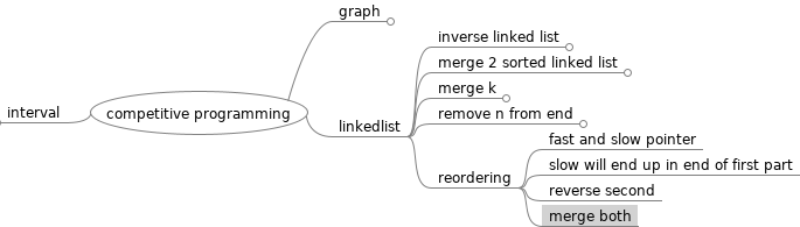
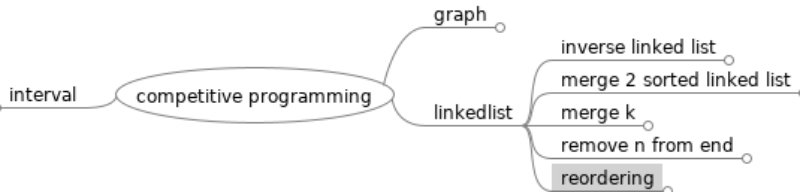
update lecture notes

Changed region(s): [[0.0, 0.0312, 1.0, 1.0], [0.4062, 0.0312, 0.5, 0.125], [0.375, 0.125, 0.4062, 0.1875]]

diff --git a/golang web.mm b/golang web.mm
@@ -1,7 +1,7 @@
 <map version="1.1.0">
 <!-- To view this file, download free mind mapping software FreeMind from http://freemind.sourceforge.net -->
 <node CREATED="1645978345703" ID="ID_952029215" MODIFIED="1645978353328" TEXT="golang web">
-<node CREATED="1645978353794" ID="ID_1264128134" MODIFIED="1645978358856" POSITION="right" TEXT="struktur">
+<node CREATED="1645978353794" FOLDED="true" ID="ID_1264128134" MODIFIED="1646240311243" POSITION="right" TEXT="struktur">
 <node CREATED="1645978359085" ID="ID_540691201" MODIFIED="1645978364226" TEXT="cmd">
 <node CREATED="1645978373316" ID="ID_836199137" MODIFIED="1645978374993" TEXT="folder"/>
 <node CREATED="1645978375265" ID="ID_1733322604" MODIFIED="1645978376710" TEXT="folder"/>
@@ -12,7 +12,7 @@
 </node>
 <node CREATED="1645978378054" ID="ID_1576394384" MODIFIED="1645978384313" TEXT="go.mod"/>
 </node>
-<node CREATED="1646144791918" ID="ID_460133849" MODIFIED="1646144794004" POSITION="left" TEXT="intro">
+<node CREATED="1646144791918" FOLDED="true" ID="ID_460133849" MODIFIED="1646240315573" POSITION="left" TEXT="intro">
 <node CREATED="1646144794279" FOLDED="true" ID="ID_1769195233" MODIFIED="1646145892400" TEXT="module">
 <node CREATED="1646144796502" ID="ID_857361042" MODIFIED="1646144804929" TEXT="manage and version control 3rd party "/>
 <node CREATED="1646144853588" FOLDED="true" ID="ID_1186864417" MODIFIED="1646145779800" TEXT="module name">
@@ -65,9 +65,39 @@
 <node CREATED="1646148165127" ID="ID_444521504" MODIFIED="1646148170950" TEXT="url query ">
 <node CREATED="1646148171339" ID="ID_1004898848" MODIFIED="1646148178672" TEXT="r.Url.Query"/>
 </node>
+<node CREATED="1646239233150" FOLDED="true" ID="ID_305910758" MODIFIED="1646239380573" TEXT="stuktur">
+<node CREATED="1646239237813" ID="ID_493323920" MODIFIED="1646239239892" TEXT="cmd"/>
+<node CREATED="1646239240136" ID="ID_72247653" MODIFIED="1646239241999" TEXT="pkg"/>
+<node CREATED="1646239242243" ID="ID_408522718" MODIFIED="1646239244037" TEXT="ui">
+<node CREATED="1646239261621" ID="ID_806149419" MODIFIED="1646239263439" TEXT="html"/>
+<node CREATED="1646239263695" ID="ID_1901437795" MODIFIED="1646239265536" TEXT="static"/>
+</node>
+</node>
+<node CREATED="1646239381290" FOLDED="true" ID="ID_1908585021" MODIFIED="1646240308255" TEXT="html/template">
+<node CREATED="1646239445130" ID="ID_837437717" MODIFIED="1646239455745" TEXT="template.ParseFile(&quot;.&quot;)">
+<node CREATED="1646239456164" ID="ID_548063431" MODIFIED="1646239464427" TEXT="titik buat nunjukin">
+<node CREATED="1646239464663" ID="ID_994939804" MODIFIED="1646239471075" TEXT="ini mulai dari root"/>
+</node>
+<node CREATED="1646239521848" ID="ID_418497392" MODIFIED="1646239525382" TEXT="balikan ts"/>
+</node>
+<node CREATED="1646239518446" ID="ID_272886794" MODIFIED="1646239536709" TEXT="ts.execute(w,nil)"/>
+<node CREATED="1646239703691" ID="ID_1454167678" MODIFIED="1646239712934" TEXT="{{ define &quot;base&quot;}}">
+<node CREATED="1646239713517" ID="ID_135177434" MODIFIED="1646239717420" TEXT="{{end}}"/>
+</node>
+<node CREATED="1646239970479" FOLDED="true" ID="ID_1364114617" MODIFIED="1646240306723" TEXT="keyword">
+<node CREATED="1646239976867" ID="ID_1881803971" MODIFIED="1646239978905" TEXT="define"/>
+<node CREATED="1646239979150" ID="ID_1330507291" MODIFIED="1646239982596" TEXT="template"/>
+<node CREATED="1646239982867" ID="ID_1034449375" MODIFIED="1646239984295" TEXT="end"/>
+</node>
+</node>
 </node>
 <node CREATED="1646148221612" ID="ID_1704935439" MODIFIED="1646148225350" POSITION="right" TEXT="status">
 <node CREATED="1646148225587" ID="ID_963603301" MODIFIED="1646148249772" TEXT="end in project structure page 35"/>
+</node>
+<node CREATED="1646240312651" ID="ID_611864463" MODIFIED="1646240320411" POSITION="left" TEXT="handler">
+<node CREATED="1646240320772" ID="ID_1465201173" MODIFIED="1646240331984" TEXT="object yg implement http.Handler"/>
+<node CREATED="1646240650104" ID="ID_1850168368" MODIFIED="1646240655969" TEXT="handlerFunc"/>
+<node CREATED="1646240656217" ID="ID_1701533356" MODIFIED="1646240659215" TEXT="serveHttp"/>
 </node>
 </node>
 </map>

diff --git a/competitive programming.mm b/competitive programming.mm
@@ -76,9 +76,10 @@
 </node>
 </node>
 </node>
-<node CREATED="1646235384630" ID="ID_43644296" MODIFIED="1646235388182" TEXT="reordering">
+<node CREATED="1646235384630" FOLDED="true" ID="ID_43644296" MODIFIED="1646239222746" TEXT="reordering">
 <node CREATED="1646235388415" ID="ID_1563599824" MODIFIED="1646235394739" TEXT="fast and slow pointer"/>
 <node CREATED="1646235395540" ID="ID_161195750" MODIFIED="1646235414114" TEXT="slow will end up in end of first part"/>
+<node CREATED="1646236123980" ID="ID_20418187" MODIFIED="1646236130406" TEXT="cut the second"/>
 <node CREATED="1646236100985" ID="ID_1930722075" MODIFIED="1646236107275" TEXT="reverse second"/>
 <node CREATED="1646236107595" ID="ID_686902376" MODIFIED="1646236111699" TEXT="merge both"/>
 </node>
